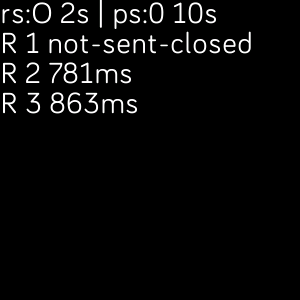
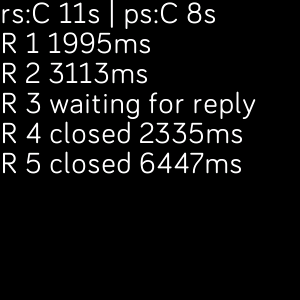
Update screenshots. Update status.

diff --git a/app/index.js b/app/index.js
@@ -112,11 +112,17 @@ function showResults() {
   past.forEach(function(request) {
     let duration
     if (request[2] == -1) {
-        duration = 'sent-not-received'
+        duration = 'waiting for reply'
     } else if (request[2] == -2) {
         duration = 'not-sent-error'
     } else if (request[2] == -3) {
-        duration = 'not-sent-closed'
+        let close_duration = request[3]
+        if (!close_duration) {
+            close_duration = now - state_changed
+            request[3] = close_duration
+        }
+
+        duration = 'closed ' + close_duration + 'ms'
     } else {
         duration = request[2] + 'ms'
     }

diff --git a/README.md b/README.md
@@ -29,6 +29,10 @@ Legend:
 
 * Time since last onopne/onclose event was received.
 
+Each line shows the round-trip for a message.
+If the connection was closed when a message was sent,
+it shows for how long the connection was closed when
+the message was closed.
 
 ![screenshot](screenshot.png?raw=true "App screenshot")
 
